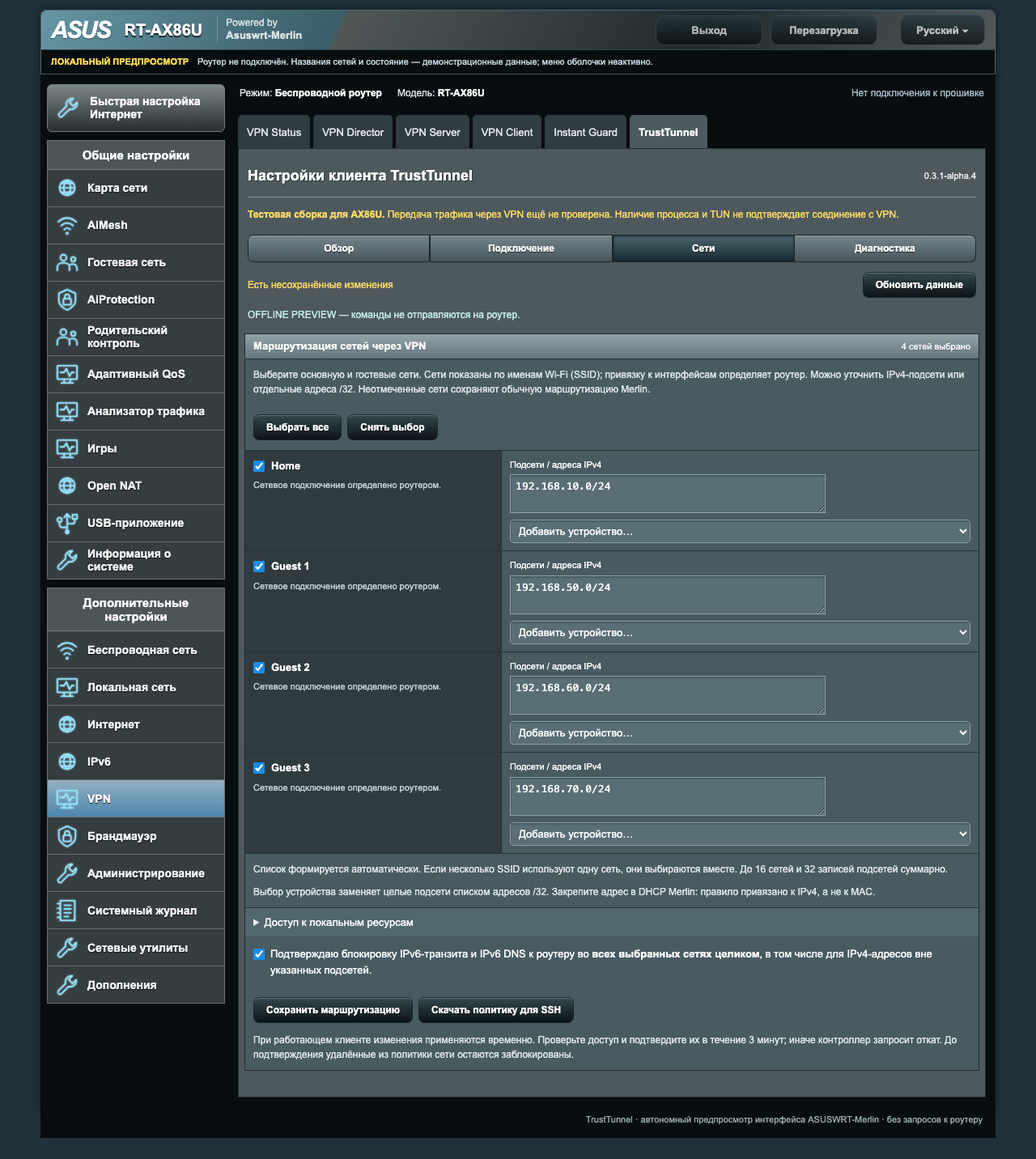
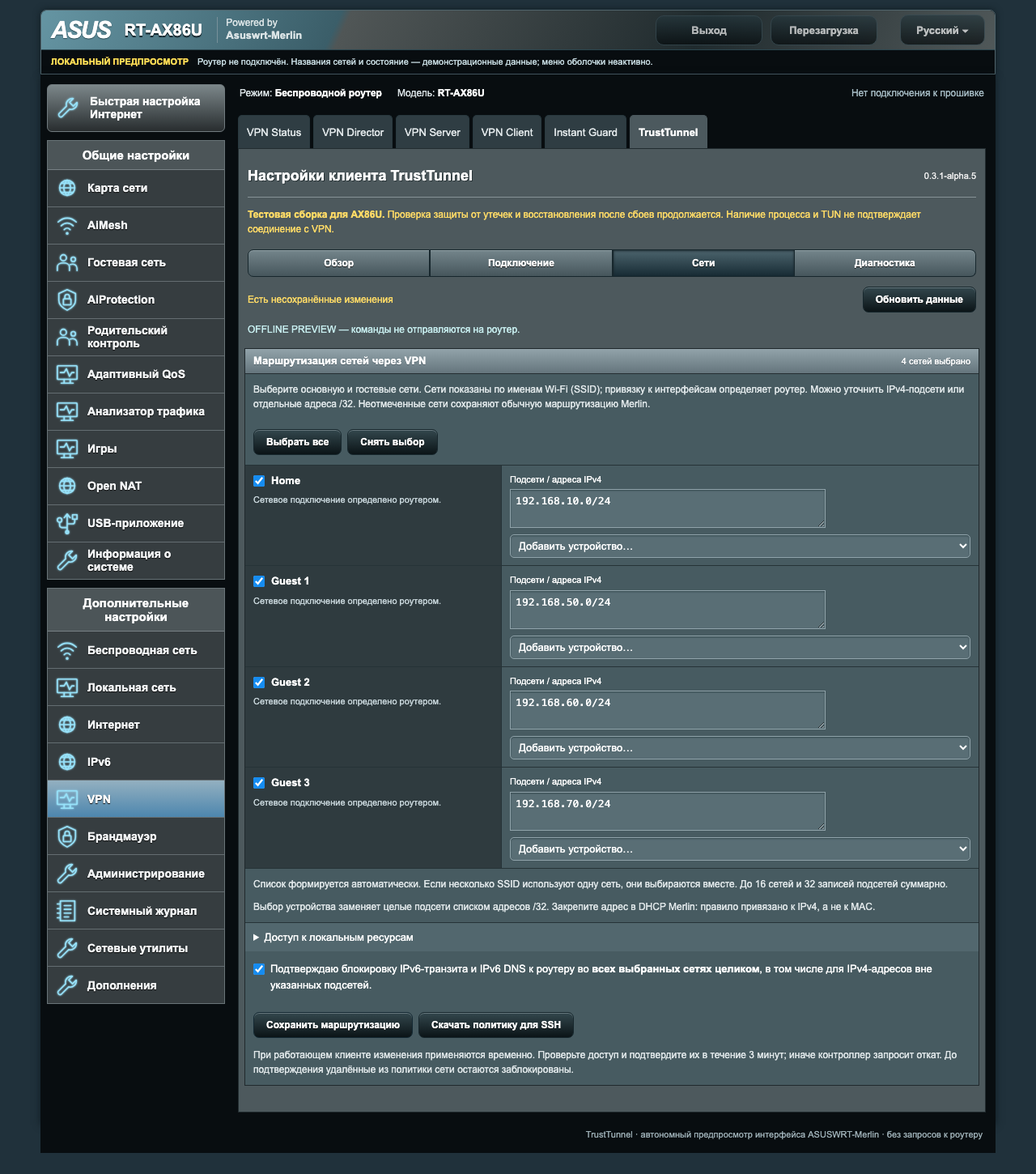
Fix router startup and isolate VPN flows without disabling HND acceleration

diff --git a/preview/index.html b/preview/index.html
@@ -172,7 +172,7 @@ body{padding:0;background:#4c595e}
 .preview-tabs{padding:0 8px;gap:4px}.preview-tab{display:none;min-height:35px;padding:0 12px;font-size:12px}.preview-tab.preview-client,.preview-tab[aria-current=page]{display:flex}
 #footer{padding:12px;font-size:10px;text-align:left}
 }
-</style><script>window.TTM_PREVIEW={"version": "0.3.1-alpha.4", "state": "disabled", "hostname": "vpn.example.com", "process_running": false, "interface_up": false, "enabled": false, "connection_verified": false, "rx_bytes": 0, "tx_bytes": 0, "timestamp": 1789394400, "last_result": "preview:not_executed", "endpoint": {"configured": true, "exclusions": []}, "revision": "0123456789abcdef", "operations": [], "transaction": null, "clients": [{"ip": "192.168.51.10", "name": "\u041d\u043e\u0443\u0442\u0431\u0443\u043a"}, {"ip": "192.168.50.20", "name": "\u0422\u0435\u043b\u0435\u0444\u043e\u043d"}], "diagnostics": {"model": "RT-AX86U", "firmware": "\u041d\u0435 \u043f\u0440\u043e\u0432\u0435\u0440\u0435\u043d\u0430", "guard": "unverified", "client_version_target": "1.1.5", "packet_path_verified": false}, "discovered_networks": [{"lan_if": "br0", "identity": "0000000000000000000000000000000000000000000000000000000000000000", "sources": ["192.168.50.0/24"], "ssids": ["Home"]}, {"lan_if": "br1", "identity": "1111111111111111111111111111111111111111111111111111111111111111", "sources": ["192.168.51.0/24"], "ssids": ["Guest 1"]}, {"lan_if": "br2", "identity": "2222222222222222222222222222222222222222222222222222222222222222", "sources": ["192.168.52.0/24"], "ssids": ["Guest 2"]}, {"lan_if": "br3", "identity": "3333333333333333333333333333333333333333333333333333333333333333", "sources": ["192.168.53.0/24"], "ssids": ["Guest 3"]}], "policy": {"schema": 3, "networks": [{"lan_if": "br1", "sources": ["192.168.51.0/24"]}], "block_ipv6_bridge": true, "table": 871, "priority": 17100}, "hardware_tested": false};</script><script>/* TrustTunnel v1 deep links, checked against TrustTunnel v1.0.33/deeplink.
+</style><script>window.TTM_PREVIEW={"version": "0.3.1-alpha.5", "state": "disabled", "hostname": "vpn.example.com", "process_running": false, "interface_up": false, "enabled": false, "connection_verified": false, "rx_bytes": 0, "tx_bytes": 0, "timestamp": 1789394400, "last_result": "preview:not_executed", "endpoint": {"configured": true, "exclusions": []}, "revision": "0123456789abcdef", "operations": [], "transaction": null, "clients": [{"ip": "192.168.51.10", "name": "\u041d\u043e\u0443\u0442\u0431\u0443\u043a"}, {"ip": "192.168.50.20", "name": "\u0422\u0435\u043b\u0435\u0444\u043e\u043d"}], "diagnostics": {"model": "RT-AX86U", "firmware": "\u041d\u0435 \u043f\u0440\u043e\u0432\u0435\u0440\u0435\u043d\u0430", "guard": "unverified", "client_version_target": "1.1.5", "packet_path_verified": false}, "discovered_networks": [{"lan_if": "br0", "identity": "0000000000000000000000000000000000000000000000000000000000000000", "sources": ["192.168.50.0/24"], "ssids": ["Home"]}, {"lan_if": "br1", "identity": "1111111111111111111111111111111111111111111111111111111111111111", "sources": ["192.168.51.0/24"], "ssids": ["Guest 1"]}, {"lan_if": "br2", "identity": "2222222222222222222222222222222222222222222222222222222222222222", "sources": ["192.168.52.0/24"], "ssids": ["Guest 2"]}, {"lan_if": "br3", "identity": "3333333333333333333333333333333333333333333333333333333333333333", "sources": ["192.168.53.0/24"], "ssids": ["Guest 3"]}], "policy": {"schema": 3, "networks": [{"lan_if": "br1", "sources": ["192.168.51.0/24"]}], "block_ipv6_bridge": true, "table": 871, "priority": 17100}, "hardware_tested": false};</script><script>/* TrustTunnel v1 deep links, checked against TrustTunnel v1.0.33/deeplink.
  * Client v1.1.5 pins that implementation in trusttunnel/Cargo.lock.
  * https://github.com/TrustTunnel/TrustTunnel/blob/v1.0.33/DEEP_LINK.md
  * parseLink(uri) -> {endpoint: schema-1 object, name: string, warnings: string[]}.
@@ -537,11 +537,12 @@ body{padding:0;background:#4c595e}
         initialized=false; dirty={}; editRevision=null; root.ttmClearConnection(); updateDirty(); refresh();
     };
     function text(id, value) { el(id).textContent = String(value); }
+    var startErrors={endpoint_missing:'Сначала сохраните корректное подключение.',policy_missing:'Выберите сети во вкладке «Сети» и нажмите «Сохранить маршрутизацию».',client_missing:'Не установлен проверенный клиент TrustTunnel.',forwarding_disabled:'На роутере отключена пересылка IPv4.',dns_missing:'В подключении не задан DNS.',dns_conflict:'Не удалось проверить внутренний адрес DNS.',network_changed:'Состав выбранных сетей изменился. Проверьте вкладку «Сети».',offload_unavailable:'Прошивка не предоставляет SKIPLOG или выборочное управление кешем потоков. Запуск заблокирован для защиты выбранных сетей.',offload_flush_failed:'Не удалось очистить ускоренные потоки выбранной сети. Защитные правила сохранены.',tun_unavailable:'Не удалось загрузить штатный TUN-модуль роутера.',missing_dependency:'На роутере отсутствует необходимая утилита.'};
     function operationLabel(op) {
         var actions={start:'Запуск',pause:'Пауза',restart:'Перезапуск',disable:'Отключение',endpoint:'Подключение',exclusions:'Исключения',policy:'Маршрутизация',diagnostics:'Диагностика'};
         var states={running:'выполняется',succeeded:'выполнено',failed:'ошибка'};
         var codes={confirmation_required:'нужно подтверждение',revision_conflict:'настройки изменены в другой вкладке',transaction_pending:'сначала завершите пробное применение',invalid_configuration:'некорректная конфигурация',apply_failed:'не удалось применить',action_failed:'не удалось выполнить'};
-        return (actions[op.action]||'Операция')+' · '+(codes[op.code]||states[op.state]||'результат неизвестен');
+        return (actions[op.action]||'Операция')+' · '+(startErrors[op.code]||codes[op.code]||states[op.state]||'результат неизвестен');
     }
     function message(value, error, target) { target = target || 'ttm-message'; text(target,value); el(target).className = error ? 'ttm-error' : 'ttm-note'; }
     function controls(ok) {
@@ -679,6 +680,9 @@ body{padding:0;background:#4c595e}
         el('ttm-network-warnings').hidden=!(status.network_warnings||[]).length;
         text('ttm-revision',status.revision||'0');
         text('ttm-guard',({disabled:'Отключена',unverified:'Проверка недоступна',installed_unverified:'Правила присутствуют; прохождение пакетов не проверено',incomplete:'Часть защитных правил отсутствует'})[(status.diagnostics||{}).guard]||'Нет данных');
+        var startup=(status.diagnostics||{}).startup;
+        text('ttm-startup',startup ? (startup.blockers||[]).map(function (code) { return startErrors[code]||code; }).concat((startup.notes||[]).includes('tun_load_on_start')?['TUN будет загружен автоматически при запуске.']:[]).join(' ') : '');
+        el('ttm-startup').hidden=!el('ttm-startup').textContent;
         text('ttm-diagnostics',JSON.stringify(status.diagnostics||{hardware_tested:false},null,2));
         el('ttm-transaction').hidden=!status.transaction;
         if (status.transaction) text('ttm-transaction-state',status.transaction.phase==='trial' ?
@@ -727,7 +731,7 @@ body{padding:0;background:#4c595e}
     async function waitOperation(id) {
         var status=await poll('status',function (s) { return (s.operations||[]).some(function (op) { return op.id===id && op.state!=='running'; }); },90000);
         var op=status.operations.find(function (item) { return item.id===id; });
-        if (op.state!=='succeeded') throw new Error(op.code==='revision_conflict'?'Настройки изменены в другой вкладке. Обновите данные перед сохранением.':'Операция завершилась ошибкой: '+op.code);
+        if (op.state!=='succeeded') throw new Error(op.code==='revision_conflict'?'Настройки изменены в другой вкладке. Обновите данные перед сохранением.':startErrors[op.code]||'Операция завершилась ошибкой: '+op.code);
         message(op.code==='confirmation_required'?'Настройки применены временно. Проверьте доступ и подтвердите применение.':'Операция выполнена.',false); return op;
     }
     async function busy(task) {
@@ -859,8 +863,8 @@ body{padding:0;background:#4c595e}
 <td class="ttm-sidebar"><div id="mainMenu" aria-label="Образец меню прошивки"><div class="preview-quick"><svg class="preview-icon" viewBox="0 0 32 32" aria-hidden="true"><path d="M23 4a8 8 0 0 0-9 10L4 24a3 3 0 0 0 4 4l10-10a8 8 0 0 0 10-9l-5 5-5-5z"/></svg><span>Быстрая настройка<br>Интернет</span></div><div class="preview-menu-group"><div class="preview-menu-heading">Общие настройки</div><div class="preview-menu-item"><svg class="preview-icon" viewBox="0 0 32 32" aria-hidden="true"><circle cx="16" cy="16" r="10"/><path d="M6 16h20M16 6c-6 6-6 14 0 20M16 6c6 6 6 14 0 20M8 10h16M8 22h16"/></svg><span>Карта сети</span></div><div class="preview-menu-item"><svg class="preview-icon" viewBox="0 0 32 32" aria-hidden="true"><path d="M4 12c7-7 17-7 24 0M8 17c5-5 11-5 16 0M12 22c3-3 5-3 8 0"/><circle cx="16" cy="27" r="1"/></svg><span>AiMesh</span></div><div class="preview-menu-item"><svg class="preview-icon" viewBox="0 0 32 32" aria-hidden="true"><circle cx="11" cy="10" r="4"/><circle cx="24" cy="12" r="3"/><path d="M3 27v-5c0-7 16-7 16 0v5M20 19c5-2 9 1 9 5v3"/></svg><span>Гостевая сеть</span></div><div class="preview-menu-item"><svg class="preview-icon" viewBox="0 0 32 32" aria-hidden="true"><path d="M16 3L5 8v9c0 6 5 10 11 13 6-3 11-7 11-13V8z"/><rect x="11" y="15" width="10" height="8" rx="1"/><path d="M13 15v-3a3 3 0 0 1 6 0v3"/></svg><span>AiProtection</span></div><div class="preview-menu-item"><svg class="preview-icon" viewBox="0 0 32 32" aria-hidden="true"><circle cx="11" cy="10" r="4"/><circle cx="24" cy="12" r="3"/><path d="M3 27v-5c0-7 16-7 16 0v5M20 19c5-2 9 1 9 5v3"/></svg><span>Родительский контроль</span></div><div class="preview-menu-item"><svg class="preview-icon" viewBox="0 0 32 32" aria-hidden="true"><rect x="3" y="5" width="26" height="18" rx="1"/><path d="M12 23v5M20 23v5M8 28h16M7 14h5l3-5 4 10 3-5h3"/></svg><span>Адаптивный QoS</span></div><div class="preview-menu-item"><svg class="preview-icon" viewBox="0 0 32 32" aria-hidden="true"><rect x="3" y="5" width="26" height="18" rx="1"/><path d="M12 23v5M20 23v5M8 28h16M7 14h5l3-5 4 10 3-5h3"/></svg><span>Анализатор трафика</span></div><div class="preview-menu-item"><svg class="preview-icon" viewBox="0 0 32 32" aria-hidden="true"><rect x="3" y="5" width="26" height="18" rx="1"/><path d="M12 23v5M20 23v5M8 28h16M7 14h5l3-5 4 10 3-5h3"/></svg><span>Игры</span></div><div class="preview-menu-item"><svg class="preview-icon" viewBox="0 0 32 32" aria-hidden="true"><circle cx="16" cy="16" r="10"/><path d="M6 16h20M16 6c-6 6-6 14 0 20M16 6c6 6 6 14 0 20M8 10h16M8 22h16"/></svg><span>Open NAT</span></div><div class="preview-menu-item"><svg class="preview-icon" viewBox="0 0 32 32" aria-hidden="true"><path d="M16 28V5m-4 4 4-5 4 5M16 22H9a3 3 0 0 1-3-3v-4M16 17h7a3 3 0 0 0 3-3v-2"/><circle cx="6" cy="12" r="3"/><rect x="23" y="5" width="6" height="6"/><circle cx="16" cy="28" r="2"/></svg><span>USB-приложение</span></div><div class="preview-menu-item"><svg class="preview-icon" viewBox="0 0 32 32" aria-hidden="true"><path d="M23 4a8 8 0 0 0-9 10L4 24a3 3 0 0 0 4 4l10-10a8 8 0 0 0 10-9l-5 5-5-5z"/></svg><span>Информация о системе</span></div></div><div class="preview-menu-group"><div class="preview-menu-heading">Дополнительные настройки</div><div class="preview-menu-item"><svg class="preview-icon" viewBox="0 0 32 32" aria-hidden="true"><path d="M4 12c7-7 17-7 24 0M8 17c5-5 11-5 16 0M12 22c3-3 5-3 8 0"/><circle cx="16" cy="27" r="1"/></svg><span>Беспроводная сеть</span></div><div class="preview-menu-item"><svg class="preview-icon" viewBox="0 0 32 32" aria-hidden="true"><rect x="3" y="5" width="26" height="18" rx="1"/><path d="M12 23v5M20 23v5M8 28h16M7 14h5l3-5 4 10 3-5h3"/></svg><span>Локальная сеть</span></div><div class="preview-menu-item"><svg class="preview-icon" viewBox="0 0 32 32" aria-hidden="true"><circle cx="16" cy="16" r="10"/><path d="M6 16h20M16 6c-6 6-6 14 0 20M16 6c6 6 6 14 0 20M8 10h16M8 22h16"/></svg><span>Интернет</span></div><div class="preview-menu-item"><svg class="preview-icon" viewBox="0 0 32 32" aria-hidden="true"><circle cx="16" cy="16" r="10"/><path d="M6 16h20M16 6c-6 6-6 14 0 20M16 6c6 6 6 14 0 20M8 10h16M8 22h16"/></svg><span>IPv6</span></div><div class="preview-menu-item is-active"><svg class="preview-icon" viewBox="0 0 32 32" aria-hidden="true"><rect x="3" y="5" width="26" height="18" rx="1"/><path d="M12 23v5M20 23v5M8 28h16M7 14h5l3-5 4 10 3-5h3"/></svg><span>VPN</span></div><div class="preview-menu-item"><svg class="preview-icon" viewBox="0 0 32 32" aria-hidden="true"><path d="M16 3L5 8v9c0 6 5 10 11 13 6-3 11-7 11-13V8z"/><rect x="11" y="15" width="10" height="8" rx="1"/><path d="M13 15v-3a3 3 0 0 1 6 0v3"/></svg><span>Брандмауэр</span></div><div class="preview-menu-item"><svg class="preview-icon" viewBox="0 0 32 32" aria-hidden="true"><path d="M23 4a8 8 0 0 0-9 10L4 24a3 3 0 0 0 4 4l10-10a8 8 0 0 0 10-9l-5 5-5-5z"/></svg><span>Администрирование</span></div><div class="preview-menu-item"><svg class="preview-icon" viewBox="0 0 32 32" aria-hidden="true"><path d="M7 3h19v26H7zM3 7h4M3 13h4M3 19h4M3 25h4M12 9h9M12 14h9M12 19h9M12 24h6"/></svg><span>Системный журнал</span></div><div class="preview-menu-item"><svg class="preview-icon" viewBox="0 0 32 32" aria-hidden="true"><path d="M23 4a8 8 0 0 0-9 10L4 24a3 3 0 0 0 4 4l10-10a8 8 0 0 0 10-9l-5 5-5-5z"/></svg><span>Сетевые утилиты</span></div><div class="preview-menu-item"><svg class="preview-icon" viewBox="0 0 32 32" aria-hidden="true"><path d="M23 4a8 8 0 0 0-9 10L4 24a3 3 0 0 0 4 4l10-10a8 8 0 0 0 10-9l-5 5-5-5z"/></svg><span>Дополнения</span></div></div></div><div id="subMenu"></div></td>
 <td style="vertical-align:top"><div id="tabMenu" class="submenuBlock"><div class="preview-status"><span>Режим: <b>Беспроводной роутер</b></span><span>Модель: <b>RT-AX86U</b></span><span class="preview-offline">Нет подключения к прошивке</span></div><div class="preview-tabs" aria-label="Образец вкладок VPN"><span class="preview-tab">VPN Status</span><span class="preview-tab">VPN Director</span><span class="preview-tab">VPN Server</span><span class="preview-tab preview-client">VPN Client</span><span class="preview-tab">Instant Guard</span><span class="preview-tab" aria-current="page">TrustTunnel</span></div></div>
 <div class="FormTitle ttm-container">
-<div class="ttm-heading ttm-titlebar"><h2>Настройки клиента TrustTunnel</h2><span class="ttm-badge" id="ttm-version">0.3.1-alpha.4</span></div>
-<div class="ttm-banner"><strong>Тестовая сборка для AX86U.</strong> Передача трафика через VPN ещё не проверена. Наличие процесса и TUN не подтверждает соединение с VPN.</div>
+<div class="ttm-heading ttm-titlebar"><h2>Настройки клиента TrustTunnel</h2><span class="ttm-badge" id="ttm-version">0.3.1-alpha.5</span></div>
+<div class="ttm-banner"><strong>Тестовая сборка для AX86U.</strong> Проверка защиты от утечек и восстановления после сбоев продолжается. Наличие процесса и TUN не подтверждает соединение с VPN.</div>
 <div class="ttm-tabs ttm-navigation" role="tablist" aria-label="Настройки TrustTunnel">
 <button role="tab" type="button" data-view-button="overview" onclick="ttmView('overview')">Обзор</button>
 <button role="tab" type="button" data-view-button="connection" onclick="ttmView('connection')">Подключение</button>
@@ -882,6 +886,7 @@ body{padding:0;background:#4c595e}
 <dt>Блокировка обхода VPN</dt><dd id="ttm-guard">—</dd>
 <dt>Ревизия настроек</dt><dd id="ttm-revision">—</dd>
 </dl>
+<p id="ttm-startup" class="ttm-note" role="status" hidden></p>
 <div class="ttm-actions">
 <button type="button" data-runtime onclick="ttmAction('start')" disabled>Запустить</button>
 <button type="button" data-runtime onclick="ttmAction('pause')" disabled>Пауза с блокировкой</button>

diff --git a/addon/web/trusttunnel.js b/addon/web/trusttunnel.js
@@ -62,11 +62,12 @@
         initialized=false; dirty={}; editRevision=null; root.ttmClearConnection(); updateDirty(); refresh();
     };
     function text(id, value) { el(id).textContent = String(value); }
+    var startErrors={endpoint_missing:'Сначала сохраните корректное подключение.',policy_missing:'Выберите сети во вкладке «Сети» и нажмите «Сохранить маршрутизацию».',client_missing:'Не установлен проверенный клиент TrustTunnel.',forwarding_disabled:'На роутере отключена пересылка IPv4.',dns_missing:'В подключении не задан DNS.',dns_conflict:'Не удалось проверить внутренний адрес DNS.',network_changed:'Состав выбранных сетей изменился. Проверьте вкладку «Сети».',offload_unavailable:'Прошивка не предоставляет SKIPLOG или выборочное управление кешем потоков. Запуск заблокирован для защиты выбранных сетей.',offload_flush_failed:'Не удалось очистить ускоренные потоки выбранной сети. Защитные правила сохранены.',tun_unavailable:'Не удалось загрузить штатный TUN-модуль роутера.',missing_dependency:'На роутере отсутствует необходимая утилита.'};
     function operationLabel(op) {
         var actions={start:'Запуск',pause:'Пауза',restart:'Перезапуск',disable:'Отключение',endpoint:'Подключение',exclusions:'Исключения',policy:'Маршрутизация',diagnostics:'Диагностика'};
         var states={running:'выполняется',succeeded:'выполнено',failed:'ошибка'};
         var codes={confirmation_required:'нужно подтверждение',revision_conflict:'настройки изменены в другой вкладке',transaction_pending:'сначала завершите пробное применение',invalid_configuration:'некорректная конфигурация',apply_failed:'не удалось применить',action_failed:'не удалось выполнить'};
-        return (actions[op.action]||'Операция')+' · '+(codes[op.code]||states[op.state]||'результат неизвестен');
+        return (actions[op.action]||'Операция')+' · '+(startErrors[op.code]||codes[op.code]||states[op.state]||'результат неизвестен');
     }
     function message(value, error, target) { target = target || 'ttm-message'; text(target,value); el(target).className = error ? 'ttm-error' : 'ttm-note'; }
     function controls(ok) {
@@ -204,6 +205,9 @@
         el('ttm-network-warnings').hidden=!(status.network_warnings||[]).length;
         text('ttm-revision',status.revision||'0');
         text('ttm-guard',({disabled:'Отключена',unverified:'Проверка недоступна',installed_unverified:'Правила присутствуют; прохождение пакетов не проверено',incomplete:'Часть защитных правил отсутствует'})[(status.diagnostics||{}).guard]||'Нет данных');
+        var startup=(status.diagnostics||{}).startup;
+        text('ttm-startup',startup ? (startup.blockers||[]).map(function (code) { return startErrors[code]||code; }).concat((startup.notes||[]).includes('tun_load_on_start')?['TUN будет загружен автоматически при запуске.']:[]).join(' ') : '');
+        el('ttm-startup').hidden=!el('ttm-startup').textContent;
         text('ttm-diagnostics',JSON.stringify(status.diagnostics||{hardware_tested:false},null,2));
         el('ttm-transaction').hidden=!status.transaction;
         if (status.transaction) text('ttm-transaction-state',status.transaction.phase==='trial' ?
@@ -252,7 +256,7 @@
     async function waitOperation(id) {
         var status=await poll('status',function (s) { return (s.operations||[]).some(function (op) { return op.id===id && op.state!=='running'; }); },90000);
         var op=status.operations.find(function (item) { return item.id===id; });
-        if (op.state!=='succeeded') throw new Error(op.code==='revision_conflict'?'Настройки изменены в другой вкладке. Обновите данные перед сохранением.':'Операция завершилась ошибкой: '+op.code);
+        if (op.state!=='succeeded') throw new Error(op.code==='revision_conflict'?'Настройки изменены в другой вкладке. Обновите данные перед сохранением.':startErrors[op.code]||'Операция завершилась ошибкой: '+op.code);
         message(op.code==='confirmation_required'?'Настройки применены временно. Проверьте доступ и подтвердите применение.':'Операция выполнена.',false); return op;
     }
     async function busy(task) {

diff --git a/tools/test-browser-transport.js b/tools/test-browser-transport.js
@@ -47,6 +47,8 @@ endpoint.password='synthetic-browser-秘密-😀'; endpoint.username='synthetic-
                     else saved=request.data;
                     state.endpoint={configured:true,exclusions:saved.exclusions||[]}; state.revision=state.revision==='0'?'abcdef0123456789':'fedcba9876543210'; state.operations=[{id:match[1],state:'succeeded',code:'saved',action:request.kind,revision:state.revision}]; }
                 transfer={state:'idle'};
+            } else if((match=command.match(/^start_ttm_do_([a-f0-9]{16})_start$/))) {
+                state.operations=[{id:match[1],state:'failed',code:'policy_missing',action:'start',revision:state.revision}];
             } else if(!command.startsWith('start_ttm_abort_')) throw new Error('Unexpected event');
             // Real Merlin redirects the parent from this response. The addon
             // must consume HTML as inert fetch data, not execute an iframe.
@@ -88,8 +90,12 @@ endpoint.password='synthetic-browser-秘密-😀'; endpoint.username='synthetic-
         await page.waitForFunction(()=>document.getElementById('ttm-message').textContent.includes('другой вкладке'),{},{timeout:60000});
         assert.equal(await page.locator('#ttm-password').inputValue(),endpoint.password);
         assert.equal(await page.locator('#ttm-message').getAttribute('class'),'ttm-error');
+        await page.getByRole('tab',{name:'Обзор',exact:true}).click();
+        await page.getByRole('button',{name:'Запустить',exact:true}).click();
+        await page.waitForFunction(()=>document.getElementById('ttm-message').textContent.includes('Выберите сети'),{},{timeout:30000});
+        assert.equal(await page.locator('#ttm-message').getAttribute('class'),'ttm-error');
         assert.deepEqual(errors,[]);
         assert.ok(!(JSON.stringify(state)+JSON.stringify(commands)).includes(endpoint.password));
-        console.log('PASS: HTTPS browser file import → encrypted native events → acknowledged save; no plaintext credentials in form/status; successful save clears secrets; exclusions-only save and reload preserve credentials/DNS; stale revision preserves input and shows failure. Merlin HTTP/authentication NOT TESTED.');
+        console.log('PASS: HTTPS browser file import → encrypted native events → acknowledged save; no plaintext credentials in form/status; successful save clears secrets; exclusions-only save and reload preserve credentials/DNS; stale revision preserves input and shows failure. startup policy error is actionable. Merlin HTTP/authentication NOT TESTED.');
     } finally { await context.close(); await browser.close(); }
 })().catch(e=>{console.error(e);process.exitCode=1;});

diff --git a/tests/test_startup.py b/tests/test_startup.py
@@ -1,0 +1,100 @@
+import json
+import os
+from pathlib import Path
+import subprocess
+import tempfile
+import unittest
+
+ROOT=Path(__file__).resolve().parents[1]
+
+class StartupTests(unittest.TestCase):
+    def setUp(self):
+        self.tmp=tempfile.TemporaryDirectory(); self.addCleanup(self.tmp.cleanup)
+        self.path=Path(self.tmp.name)
+    def execute(self, body):
+        return subprocess.run(['busybox','ash','-c','''. "$TT_BASE/lib/common.sh"
+. "$TT_BASE/lib/config.sh"
+. "$TT_BASE/lib/service.sh"
+. "$TT_BASE/lib/transfer.sh"
+tt_dirs || exit 99
+'''+body],env=os.environ|{'TT_ROOT':str(self.path),'TT_BASE':str(ROOT/'addon')},capture_output=True,text=True)
+    def test_offline_readiness_does_not_inspect_host_or_load_modules(self):
+        r=self.execute('''fc() { echo HOST_CALL >&2; return 99; }
+nvram() { echo HOST_CALL >&2; return 99; }
+modprobe() { echo HOST_CALL >&2; return 99; }
+tt_start_readiness''')
+        self.assertEqual(r.returncode,0,r.stderr)
+        self.assertNotIn('HOST_CALL',r.stderr)
+        self.assertEqual(json.loads(r.stdout)['blockers'],['endpoint_missing','policy_missing','offload_unavailable'])
+    def test_sandbox_refuses_tun_loading(self):
+        r=self.execute('modprobe() { echo HOST_CALL >&2; }; tt_ensure_tun')
+        self.assertNotEqual(r.returncode,0)
+        self.assertNotIn('HOST_CALL',r.stderr)
+    def test_actual_hnd_state_overrides_legacy_ctf_flag(self):
+        r=self.execute('''fc() { printf 'HW Acceleration <Enabled>\nFlow Learning Enabled : Max<1>\n'; }
+nvram() { echo 1; }
+TT_ROOT=
+tt_acceleration_state''')
+        self.assertEqual(r.stdout.strip(),'enabled')
+    def test_hnd_requires_both_engines_disabled(self):
+        for status,expected in [
+            ('HW Acceleration <Disabled>\nFlow Learning Disabled','disabled'),
+            ('HW Acceleration <Disabled>\nFlow Learning Enabled','enabled'),
+            ('HW Acceleration <Enabled>\nFlow Learning Disabled','enabled'),
+            ('HW Acceleration <Disabled>','unknown'),
+            ('HW Acceleration <Disabled>\nFlow Ucast Learning Disabled\nFlow Mcast Learning Enabled','enabled'),
+            ('unrecognized firmware output','unknown')]:
+            with self.subTest(status=status):
+                (self.path/'fc-status').write_text(status)
+                r=self.execute('''fixture=$TT_ROOT/fc-status
+fc() { cat "$fixture"; }
+TT_ROOT=
+tt_acceleration_state''')
+                self.assertEqual(r.stdout.strip(),expected,r.stderr)
+    def test_failed_hnd_query_is_unknown(self):
+        r=self.execute('fc() { return 1; }; TT_ROOT=; tt_acceleration_state')
+        self.assertEqual(r.stdout.strip(),'unknown')
+    def test_missing_policy_reports_actionable_code_before_network_access(self):
+        r=self.execute('''tt_live() { return 0; }
+cp "$TT_BASE/../examples/endpoint.example.json" "$TT_ENDPOINT"
+ip() { echo UNEXPECTED >&2; return 99; }
+iptables() { return 99; }; ip6tables() { return 99; }
+iptables-restore() { return 99; }; ip6tables-restore() { return 99; }
+modprobe() { echo UNEXPECTED >&2; return 99; }
+tt_wire_dispatch ttm_do_0123456789abcdef_start''')
+        self.assertNotEqual(r.returncode,0)
+        self.assertNotIn('UNEXPECTED',r.stderr)
+        op=json.loads((self.path/'tmp/trusttunnel/operations/0123456789abcdef.json').read_text())
+        self.assertEqual(op['code'],'policy_missing')
+        self.assertFalse((self.path/'jffs/addons/trusttunnel/config/enabled').exists())
+    def test_arbitrary_failure_text_cannot_be_published_as_code(self):
+        r=self.execute('''tt_start() { TT_FAILURE_CODE='SYNTHETIC_SECRET'; return 1; }
+tt_wire_dispatch ttm_do_0123456789abcdef_start''')
+        self.assertNotEqual(r.returncode,0)
+        raw=(self.path/'tmp/trusttunnel/operations/0123456789abcdef.json').read_text()
+        self.assertNotIn('SYNTHETIC_SECRET',raw)
+        self.assertEqual(json.loads(raw)['code'],'action_failed')
+
+    def test_start_loads_only_tun_and_rechecks_device(self):
+        r=self.execute("""tt_tun_available() { [ "$loaded" = yes ]; }
+modprobe() { [ "$1" = tun ] && [ "$#" = 1 ] || return 99; loaded=yes; }
+TT_ROOT=
+tt_ensure_tun && tt_ensure_tun""")
+        self.assertEqual(r.returncode,0,r.stderr)
+    def test_failed_module_load_produces_tun_error(self):
+        r=self.execute("""tt_tun_available() { return 1; }
+modprobe() { return 1; }
+TT_ROOT=
+tt_ensure_tun; result=$?; printf '%s' "$TT_FAILURE_CODE"; exit "$result"
+""")
+        self.assertNotEqual(r.returncode,0)
+        self.assertEqual(r.stdout,'tun_unavailable')
+
+    def test_selective_offload_requires_both_protocol_targets(self):
+        net=self.path/'proc/net'; net.mkdir(parents=True)
+        for v4,v6,expected in [('SKIPLOG','SKIPLOG',0),('ACCEPT','SKIPLOG',1),('SKIPLOG','ACCEPT',1)]:
+            with self.subTest(v4=v4,v6=v6):
+                (net/'ip_tables_targets').write_text(v4+'\n')
+                (net/'ip6_tables_targets').write_text(v6+'\n')
+                r=self.execute('fc() { return 99; }; TT_ROOT=; tt_selective_offload_supported')
+                self.assertEqual(r.returncode,expected,r.stderr)

diff --git a/tests/test_network_executor.py b/tests/test_network_executor.py
@@ -14,7 +14,7 @@ class ExecutorTests(unittest.TestCase):
         self.path=Path(self.tmp.name);(self.path/'fakebin').mkdir();(self.path/'net').mkdir()
         # Copy, don't chmod symlink target in the user's checkout.
         content=(ROOT/'tests/mock_net.py').read_bytes()
-        for name in ['ip','iptables','ip6tables','iptables-restore','ip6tables-restore']:
+        for name in ['fc','ip','iptables','ip6tables','iptables-restore','ip6tables-restore']:
             file=self.path/'fakebin'/name;file.write_bytes(content);file.chmod(0o755)
         self.env=os.environ|{'TT_ROOT':str(self.path/'sandbox'),'TT_MOCK_NET':str(self.path/'net')}
     def execute(self,body,fail=''):
@@ -81,6 +81,35 @@ ip() { if [ "$1" = link ]; then return 0; else command ip "$@"; fi; }
 tt_spawn''')
         self.assertEqual(result.returncode,0,result.stderr)
         self.assertIn('871:10',self.state()['routes'])
+    def test_flow_flush_is_scoped_to_selected_bridge_and_members(self):
+        members=self.path/'sandbox/sys/class/net/br1/brif'
+        members.mkdir(parents=True)
+        for name in ('wl0.1','eth1.501'): (members/name).mkdir()
+        (self.path/'sandbox/sys/class/net/br0/bridge').mkdir(parents=True)
+        result=self.execute('tt_claim_resources && tt_run_plan guard "$TT_POLICY"')
+        self.assertEqual(result.returncode,0,result.stderr)
+        calls=[json.loads(line) for line in (self.path/'net/calls.jsonl').read_text().splitlines()]
+        fc=[c['argv'] for c in calls if c['program']=='fc']
+        self.assertEqual(fc,[['flush','--if','br1'],['flush','--if','eth1.501'],['flush','--if','wl0.1']])
+        rules=self.state()['chains']['iptables:filter:TTM4_FWD']
+        self.assertEqual(rules[:2],[['-i','br1','-s','192.168.50.0/24','-j','SKIPLOG'],
+                                   ['-o','br1','-d','192.168.50.0/24','-j','SKIPLOG']])
+        self.assertTrue(all('br0' not in rule for rule in rules))
+        last_restore=max(i for i,c in enumerate(calls) if c['program'].endswith('-restore'))
+        first_fc=next(i for i,c in enumerate(calls) if c['program']=='fc')
+        self.assertGreater(first_fc,last_restore)
+
+    def test_failed_flow_flush_retains_guards_and_reports_fixed_error(self):
+        result=self.execute('''tt_claim_resources && tt_run_plan guard "$TT_POLICY"
+result=$?; printf '%s' "$TT_FAILURE_CODE"; exit "$result"''',fail='fc flush')
+        self.assertNotEqual(result.returncode,0)
+        self.assertEqual(result.stdout,'offload_flush_failed')
+        state=self.state()
+        self.assertIn('iptables:filter:TTM4_FWD',state['chains'])
+        self.assertEqual(set(state['routes']),{'871:32760'})
+        self.assertEqual(len(state['rules']),1)
+        self.assertTrue((self.path/'sandbox/tmp/trusttunnel/resources-owned').exists())
+
     def test_invalid_plan_not_silently_accepted(self):
         result=self.execute('tt_run_plan INVALID "$TT_POLICY"')
         self.assertNotEqual(result.returncode,0)

diff --git a/tests/mock_net.py b/tests/mock_net.py
@@ -47,6 +47,8 @@ def filter_command(program,table,items):
     return 2
 
 if os.environ.get('TT_MOCK_FAIL') and os.environ['TT_MOCK_FAIL'] in name+' '+' '.join(args):done(9)
+if name=='fc':
+    done(0 if len(args)==3 and args[:2]==['flush','--if'] else 2)
 if name.endswith('-restore'):
     program=name.removesuffix('-restore');table='filter'
     for line in stdin.splitlines():

diff --git a/docs/TEST-REPORT.md b/docs/TEST-REPORT.md
@@ -1,4 +1,18 @@
-# Фактические проверки 0.3.1-alpha.4
+# Фактические проверки 0.3.1-alpha.5
+
+## Расследование первого запуска alpha.5
+
+Отчёт пользователя и SSH подтвердили: endpoint сохранён, policy отсутствует, /dev/net/tun отсутствует; fc status показывает включённые HW Acceleration и Flow Learning. Старое условие ctf_disable==1 неприменимо как проверка HND AX86U. Операция браузера теряла причину ошибки за action_failed. Успешная операция exclusions/saved подтверждена в пользовательском отчёте alpha.4.
+
+Штатный modprobe tun создал /dev/net/tun (10,200). curl из firmware не поддерживает SOCKS; SSH forwarding запрещён — настройки SSH не менялись. Для изолированной проверки установлен curl 8.15.0-2 из Entware (предыдущий список пакетов сохранён). Клиент временно слушал только 127.0.0.1:18710, конфигурация была приватной и удалена после проверки; HTTPS к example.com получил HTTP 200. Это проверка клиент/сервер, а не доказательство прохождения пакетов из гостевой сети. Пользователь выбрал только Home_net_dev 192.168.101.0/24; подготовлена политика только этой сети. Её первый импорт выявил несовместимость CIDR-выражений с Entware jq 1.8.1 (host jq 1.7.1 принимал их). Исправленный валидатор проверен временным файлом на роутере; глобальное ускорение не отключалось.
+
+Локальные проверки alpha.5: 168 Python tests PASS (124.522 s), JavaScript 19/35/6 групп PASS, ShellCheck 0.10 warning/error PASS, make preview и browser-test PASS. В браузерном стенде дополнительно проверено понятное сообщение policy_missing. Переносимые CIDR-векторы tools/test-cidr-compat.sh прошли на host jq 1.7.1-apple, firmware jq 1.7.1 и Entware jq 1.8.1. Успех mocks не доказывает сетевую защиту.
+
+На роутере установлена alpha.5 с резервом install-20260920-202247.ScFQ8g; endpoint сохранился побайтово. Импорт политики Home_net_dev теперь прошёл. Готовность: endpoint/policy/TUN/selective_offload true, acceleration enabled, blockers пуст. Первый контролируемый start прошёл с независимым автоотключением через 300 s. В таблице 871 появились default dev tt0 и резервный prohibit default; правило 17100 ограничено from 192.168.101.0/24 iif br1. Main routes не изменились. HW Acceleration и Flow Learning остались Enabled. В обе стороны растут счётчики SKIPLOG/ACCEPT br1↔tt0, зафиксировано около 2.7 MB входящего TUN-трафика и UDP DNS DNAT. Это подтверждает фактическое прохождение части гостевого трафика через TUN, но не полноту защиты от обхода аппаратных потоков.
+
+Пользователь подтвердил с устройства Home_net_dev: example.com и ifconfig.me открываются, внешний IP изменился относительно основной сети. Это первый успешный пользовательский тест VPN через гостевую сеть при включённом HND. Полная аппаратная матрица (утечки IPv6/DNS, уже ускоренные потоки, firewall/WAN/reboot, скорость) остаётся незавершённой.
+
+Во время испытания пользователь применил и подтвердил новые исключения в WebUI; перезапуск клиента был ожидаемой частью этой операции. После 300 s независимый таймер успешно отключил VPN (exit 0). Main routes, все ip rules и определения IPv4/IPv6 firewall совпали с исходными снимками (счётчики/комментарии исключены). Клиент и tt0 отсутствуют, guards отключены, HND остаётся enabled. Приватные параметры подключения и DNS сохранились; подтверждённые новые исключения сохранены. Политика Home_net_dev остаётся готовой для следующего запуска из панели.
 
 ## Уточнение инвентаризации и исключения alpha.4
 

diff --git a/docs/STATUS.md b/docs/STATUS.md
@@ -1,8 +1,10 @@
-# Состояние 0.3.1-alpha.4
+# Состояние 0.3.1-alpha.5
 
-Цель: ASUS RT-AX86U aarch64, Entware установлен. По отдельному разрешению пользователя 20.09.2026 выполнена установка на Merlin 3004.388.12_2 / kernel 4.1.52. Официальный клиент 1.1.5 проверен по GPG-подписи и запускается с --version. Аддон установлен выключенным; обнаружены два реальных bridge. Передача VPN-трафика и ускорение HND не проверены.
+Цель: ASUS RT-AX86U aarch64, Entware установлен. По отдельному разрешению пользователя 20.09.2026 выполнена установка на Merlin 3004.388.12_2 / kernel 4.1.52. Официальный клиент 1.1.5 проверен по GPG-подписи и запускается с --version. Alpha.5 установлена; обнаружены два реальных bridge. Первый контролируемый запуск выполнен только для Home_net_dev: клиент/TUN и счётчики гостевого трафика работают; пользователь подтвердил открытие сайтов и изменение внешнего IP. Глобальное HND ускорение осталось включённым. После пятиминутного теста VPN автоматически отключён, исходные маршруты/firewall восстановлены; подключение, пользовательские исключения и выбор гостевой сети сохранены. Полная защита от утечек и производительность не проверены.
 
 ## Реализовано для локального тестирования
+
+- Проверки готовности первого запуска, автоматическая загрузка штатного TUN, фиксированные понятные причины отказов и диагностика фактического HND. Глобальное ускорение сохраняется, выбранные потоки исключаются через SKIPLOG; старые потоки удаляются из flow cache только по выбранным bridge/их участникам. Исправлена валидация CIDR на jq 1.8.1.
 
 - Нативная страница VPN в стиле Merlin: Обзор / Подключение / Сети / Диагностика, клавиатурные вкладки, несохранённые изменения.
 - Ручное подключение, официальный tt:// v1 и импорт JSON/текстового файла; DNS только из endpoint, импортированное значение неизменяемо в форме.
@@ -19,7 +21,7 @@
 
 ## Аппаратная приёмка — частично выполнена
 
-SSH, установка/повторная установка, подпись и --version клиента, загрузка HTTPS-страницы и обнаружение сетей выполнены. После установки основные маршруты, ip rules и правила IPv4/IPv6 firewall совпали с исходными (счётчики/время исключены). Остались: CSRF, размер и доставка событий Merlin, DNS/TLS/TUN, сохранение и откат с реальным трафиком, guest isolation, отключение WAN, firewall reload, ранняя загрузка, пропадание USB, HND/CTF. Устройство /dev/net/tun пока отсутствует, ctf_disable=0; эти настройки не изменялись. Матрица: [HARDWARE-TESTS.md](HARDWARE-TESTS.md).
+SSH, установка/повторная установка, подпись и --version клиента, загрузка HTTPS-страницы и обнаружение сетей выполнены. После установки основные маршруты, ip rules и правила IPv4/IPv6 firewall совпали с исходными (счётчики/время исключены). Остались: CSRF, размер и доставка событий Merlin, DNS/TLS/TUN, сохранение и откат с реальным трафиком, guest isolation, отключение WAN, firewall reload, ранняя загрузка, пропадание USB, HND/CTF. Штатный TUN-модуль загружен; загрузка при запуске включена в alpha.5. Состояние HND определяется по fc status, а не по ctf_disable. Текущие аппаратные проверки см. в TEST-REPORT. Матрица: [HARDWARE-TESTS.md](HARDWARE-TESTS.md).
 
 ## Практические ограничения
 

diff --git a/docs/RESEARCH.md b/docs/RESEARCH.md
@@ -118,3 +118,11 @@ DNS-путь сверялся с [dns_handler.h v1.1.5](https://github.com/Trust
 [Справочник конфигурации закреплённой версии](https://github.com/TrustTunnel/TrustTunnelClient/blob/v1.1.5/trusttunnel/README.md#exclusions-syntax) определяет верхнеуровневые `vpn_mode` и `exclusions`. В режиме `general` исключения обходят VPN; поддержаны обычный домен, `*.domain`, IPv4 с необязательным портом, IPv6, CIDR и `*:port`. Полный URL и HTTP-путь в синтаксис не входят.
 
 Аддон фиксирует `general`, потому что выбор исходных LAN/устройств уже выполняет его policy routing. IPv4-совместимое подмножество синтаксиса хранится в endpoint JSON и дословно генерируется как TOML-массив после строгой проверки. IPv6-правила не предлагаются: клиент запускается с `has_ipv6=false`, а выбранные bridge получают IPv6 block. `[listener.tun].excluded_routes` остаётся пустым согласно тому же справочнику: `included_routes=[]` отключает управление таблицей 880, которое конфликтовало бы с собственной таблицей 871 аддона. Реальный прямой выход доменных/IP-исключений и DNS-поведение ещё должны быть подтверждены пакетной проверкой на AX86U.
+
+## Уточнение HND на AX86U, 20.09.2026
+
+Изначальное требование `ctf_disable=1` удалено: оно смешивало CTF и HND и требовало глобального ограничения без проверки возможностей прошивки. Штатный VPN Director использует собственные source-policy правила; наличие VPN-клиента не обосновывает отключение ускорения всего роутера. Проверены исходники Merlin 3004.388.12_2 (ссылки в UPSTREAM.md) и доступные механизмы реального роутера.
+
+SKIPLOG вызывает `blog_skip` для совпавших пакетов и продолжает обычную фильтрацию. Alpha.5 применяет его к выбранным IPv4 источникам/ответам и к IPv6 выбранных bridge. После установки guards выполняется `fc flush --if` для выбранного bridge и его участников: уже ускоренные соединения должны снова пройти правила. Глобальные `fc disable`, `runner disable`, NVRAM и общий conntrack не используются. Выключенный аддон не устанавливает эти правила. При выборе отдельных /32 очистка кеша всё равно касается bridge; остальные потоки могут обучаться заново. Это нужно учитывать при последующих измерениях.
+
+Реальный первый запуск подтвердил наличие правил, обмен br1↔tt0 и сохранение Enabled у HW Acceleration/Flow Learning; он не заменяет тесты существующих потоков, IPv6/DNS-утечек, перезагрузки и скорости. Производительность самой VPN-сети ограничивается обработкой TrustTunnel/шифрованием на CPU; скорость остальных сетей пока не измерена, поэтому утверждать отсутствие любого влияния под нагрузкой нельзя.

diff --git a/CHANGELOG.md b/CHANGELOG.md
@@ -1,3 +1,11 @@
+# 0.3.1-alpha.5 — 2026-09-20
+
+- Исправлены предпосылки первого запуска: штатный TUN-модуль загружается при необходимости; отсутствие сохранённой политики выявляется до сетевых изменений.
+- На HND читается реальное состояние Flow Cache и hardware acceleration через fc status. Старый ctf_disable больше не считается доказательством отключённого HND. Глобальное отключение ускорения не требуется: выбранные IPv4-потоки и IPv6 выбранных bridge исключаются через SKIPLOG, существующий flow cache очищается только для этих bridge и их участников. Отсутствие механизмов или ошибка выборочной очистки блокирует запуск; установка не меняет ускорение.
+- Панель и диагностика показывают причины отказа запуска вместо общего action_failed: несохранённое подключение/сети, TUN, DNS, изменившаяся сеть, ускорение, зависимости. В статус передаются только фиксированные коды, без фрагментов конфигурации или журналов.
+
+- Исправлена неоднозначность jq-выражений проверки CIDR, приводившая к отказу сохранения политики на Entware jq 1.8.1. Добавлены переносимые проверки для host/router.
+
 # 0.3.1-alpha.4 — 2026-09-20
 
 - Исключения сохранённого подключения загружаются в WebUI и сохраняются отдельной кнопкой без пароля/ссылки. Частичный запрос допускает только список исключений; сервер объединяет его с приватным endpoint под блокировкой, проверяет ревизию и полную схему, сохраняет резерв. Активный VPN использует существующий пробный transaction apply.
